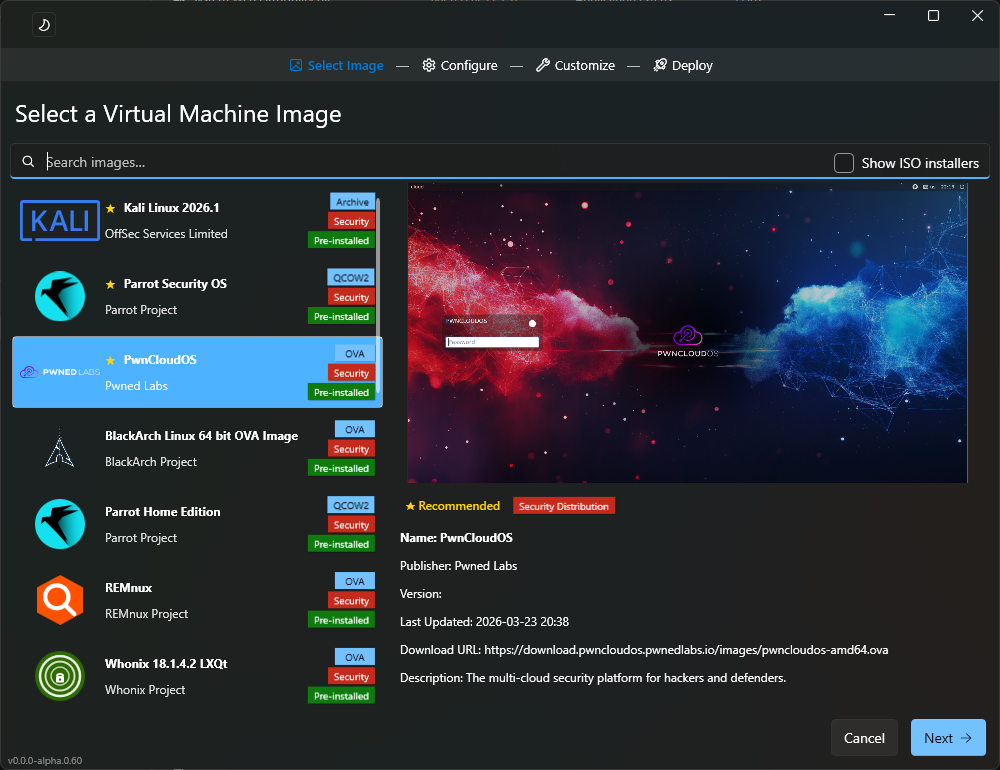
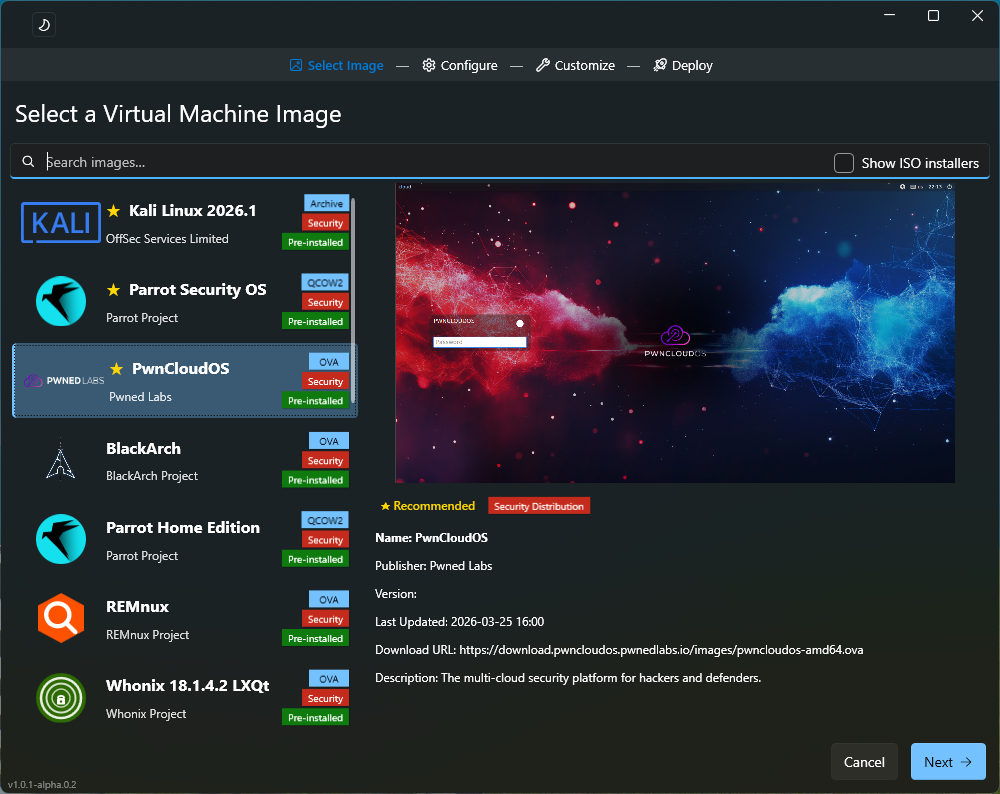
improve GUI selection highlight

diff --git a/VMCreate/App.xaml b/VMCreate/App.xaml
@@ -57,18 +57,42 @@
                 <Setter Property="Margin" Value="4"/>
                 <Setter Property="Padding" Value="12,8"/>
             </Style>
-            <Style x:Key="GalleryItemStyle" TargetType="{x:Type ListBoxItem}" BasedOn="{StaticResource {x:Type ListBoxItem}}">
+            <SolidColorBrush x:Key="SelectedItemBackgroundBrush" Color="{DynamicResource SystemAccentColorSecondary}" Opacity="0.35"/>
+            <Style x:Key="GalleryItemStyle" TargetType="{x:Type ListBoxItem}">
                 <Setter Property="HorizontalContentAlignment" Value="Stretch"/>
                 <Setter Property="Margin" Value="2"/>
-                <Setter Property="Padding" Value="6"/>
-                <Setter Property="BorderThickness" Value="1"/>
-                <Setter Property="BorderBrush" Value="{DynamicResource ControlStrokeColorDefaultBrush}"/>
-                <Style.Triggers>
-                    <Trigger Property="IsSelected" Value="True">
-                        <Setter Property="Background" Value="{DynamicResource SubtleFillColorSecondaryBrush}"/>
-                        <Setter Property="BorderBrush" Value="{DynamicResource AccentBrush}"/>
-                    </Trigger>
-                </Style.Triggers>
+                <Setter Property="Padding" Value="8"/>
+                <Setter Property="Foreground" Value="{DynamicResource TextFillColorPrimaryBrush}"/>
+                <Setter Property="Template">
+                    <Setter.Value>
+                        <ControlTemplate TargetType="{x:Type ListBoxItem}">
+                            <Border x:Name="Bd"
+                                    Background="Transparent"
+                                    BorderThickness="0"
+                                    CornerRadius="4"
+                                    Padding="{TemplateBinding Padding}"
+                                    SnapsToDevicePixels="True">
+                                <ContentPresenter HorizontalAlignment="{TemplateBinding HorizontalContentAlignment}"
+                                                  VerticalAlignment="{TemplateBinding VerticalContentAlignment}"
+                                                  SnapsToDevicePixels="{TemplateBinding SnapsToDevicePixels}"/>
+                            </Border>
+                            <ControlTemplate.Triggers>
+                                <Trigger Property="IsSelected" Value="True">
+                                    <Setter TargetName="Bd" Property="Background" Value="{DynamicResource SelectedItemBackgroundBrush}"/>
+                                    <Setter TargetName="Bd" Property="BorderBrush" Value="{DynamicResource AccentBrush}"/>
+                                    <Setter TargetName="Bd" Property="BorderThickness" Value="3,0,0,0"/>
+                                </Trigger>
+                                <Trigger Property="IsMouseOver" Value="True">
+                                    <Setter TargetName="Bd" Property="Background">
+                                        <Setter.Value>
+                                            <SolidColorBrush Color="{DynamicResource SubtleFillColorSecondary}" Opacity="0.8"/>
+                                        </Setter.Value>
+                                    </Setter>
+                                </Trigger>
+                            </ControlTemplate.Triggers>
+                        </ControlTemplate>
+                    </Setter.Value>
+                </Setter>
             </Style>
             <Style x:Key="ExpanderStyle" TargetType="{x:Type Expander}" BasedOn="{StaticResource {x:Type Expander}}">
                 <Setter Property="FontSize" Value="16"/>

diff --git a/VMCreate/GUI/SelectImagePage.xaml b/VMCreate/GUI/SelectImagePage.xaml
@@ -60,11 +60,11 @@
                                     <StackPanel Orientation="Vertical" VerticalAlignment="Center">
                                         <StackPanel Orientation="Horizontal" VerticalAlignment="Center">
                                             <!-- Gold star for recommended items -->
-                                            <TextBlock Text="★" FontSize="13" Foreground="#FFD700"
+                                            <TextBlock Text="★" FontSize="18" Foreground="#FFD700"
                                                        VerticalAlignment="Center" Margin="5,0,3,0"
                                                        ToolTip="Recommended"
                                                        Visibility="{Binding IsRecommended, Converter={StaticResource BoolToVis}}"/>
-                                            <TextBlock Text="{Binding Name}" Style="{StaticResource ExplanationText}" FontWeight="Bold" TextAlignment="Left"/>
+                                            <TextBlock Text="{Binding Name}" Style="{StaticResource ExplanationText}" FontWeight="Bold" FontSize="16" TextAlignment="Left"/>
                                         </StackPanel>
                                         <TextBlock Text="{Binding Publisher}" Style="{StaticResource PublisherText}" TextAlignment="Left"/>
                                     </StackPanel>

diff --git a/VMCreate.Gallery.Security/distributions/BlackArch.cs b/VMCreate.Gallery.Security/distributions/BlackArch.cs
@@ -42,7 +42,7 @@ namespace VMCreate.Gallery
 
                     var slimItem = new GalleryItem
                     {
-                        Name = "BlackArch Linux 64 bit Slim ISO",
+                        Name = "BlackArch",
                         Publisher = "BlackArch Project",
                         Description = $"BlackArch Linux is an Arch Linux-based penetration testing distribution for penetration testers and security researchers. This is the Slim ISO (version {PinnedVersion}), which contains a functional BlackArch Linux system with a selected set of common/well-known tools and system utilities for pentesting.",
                         ThumbnailUri = "https://blackarch.org/images/screenshots/menu_slim.png",
@@ -68,7 +68,7 @@ namespace VMCreate.Gallery
 
                     var ovaItem = new GalleryItem
                     {
-                        Name = "BlackArch Linux 64 bit OVA Image",
+                        Name = "BlackArch",
                         Publisher = "BlackArch Project",
                         Description = $"BlackArch Linux is an Arch Linux-based penetration testing distribution for penetration testers and security researchers. This is the OVA Image (version {PinnedVersion}), suitable for running in VirtualBox, VMware, and QEMU.",
                         ThumbnailUri = "https://blackarch.org/images/screenshots/menu_slim.png",
